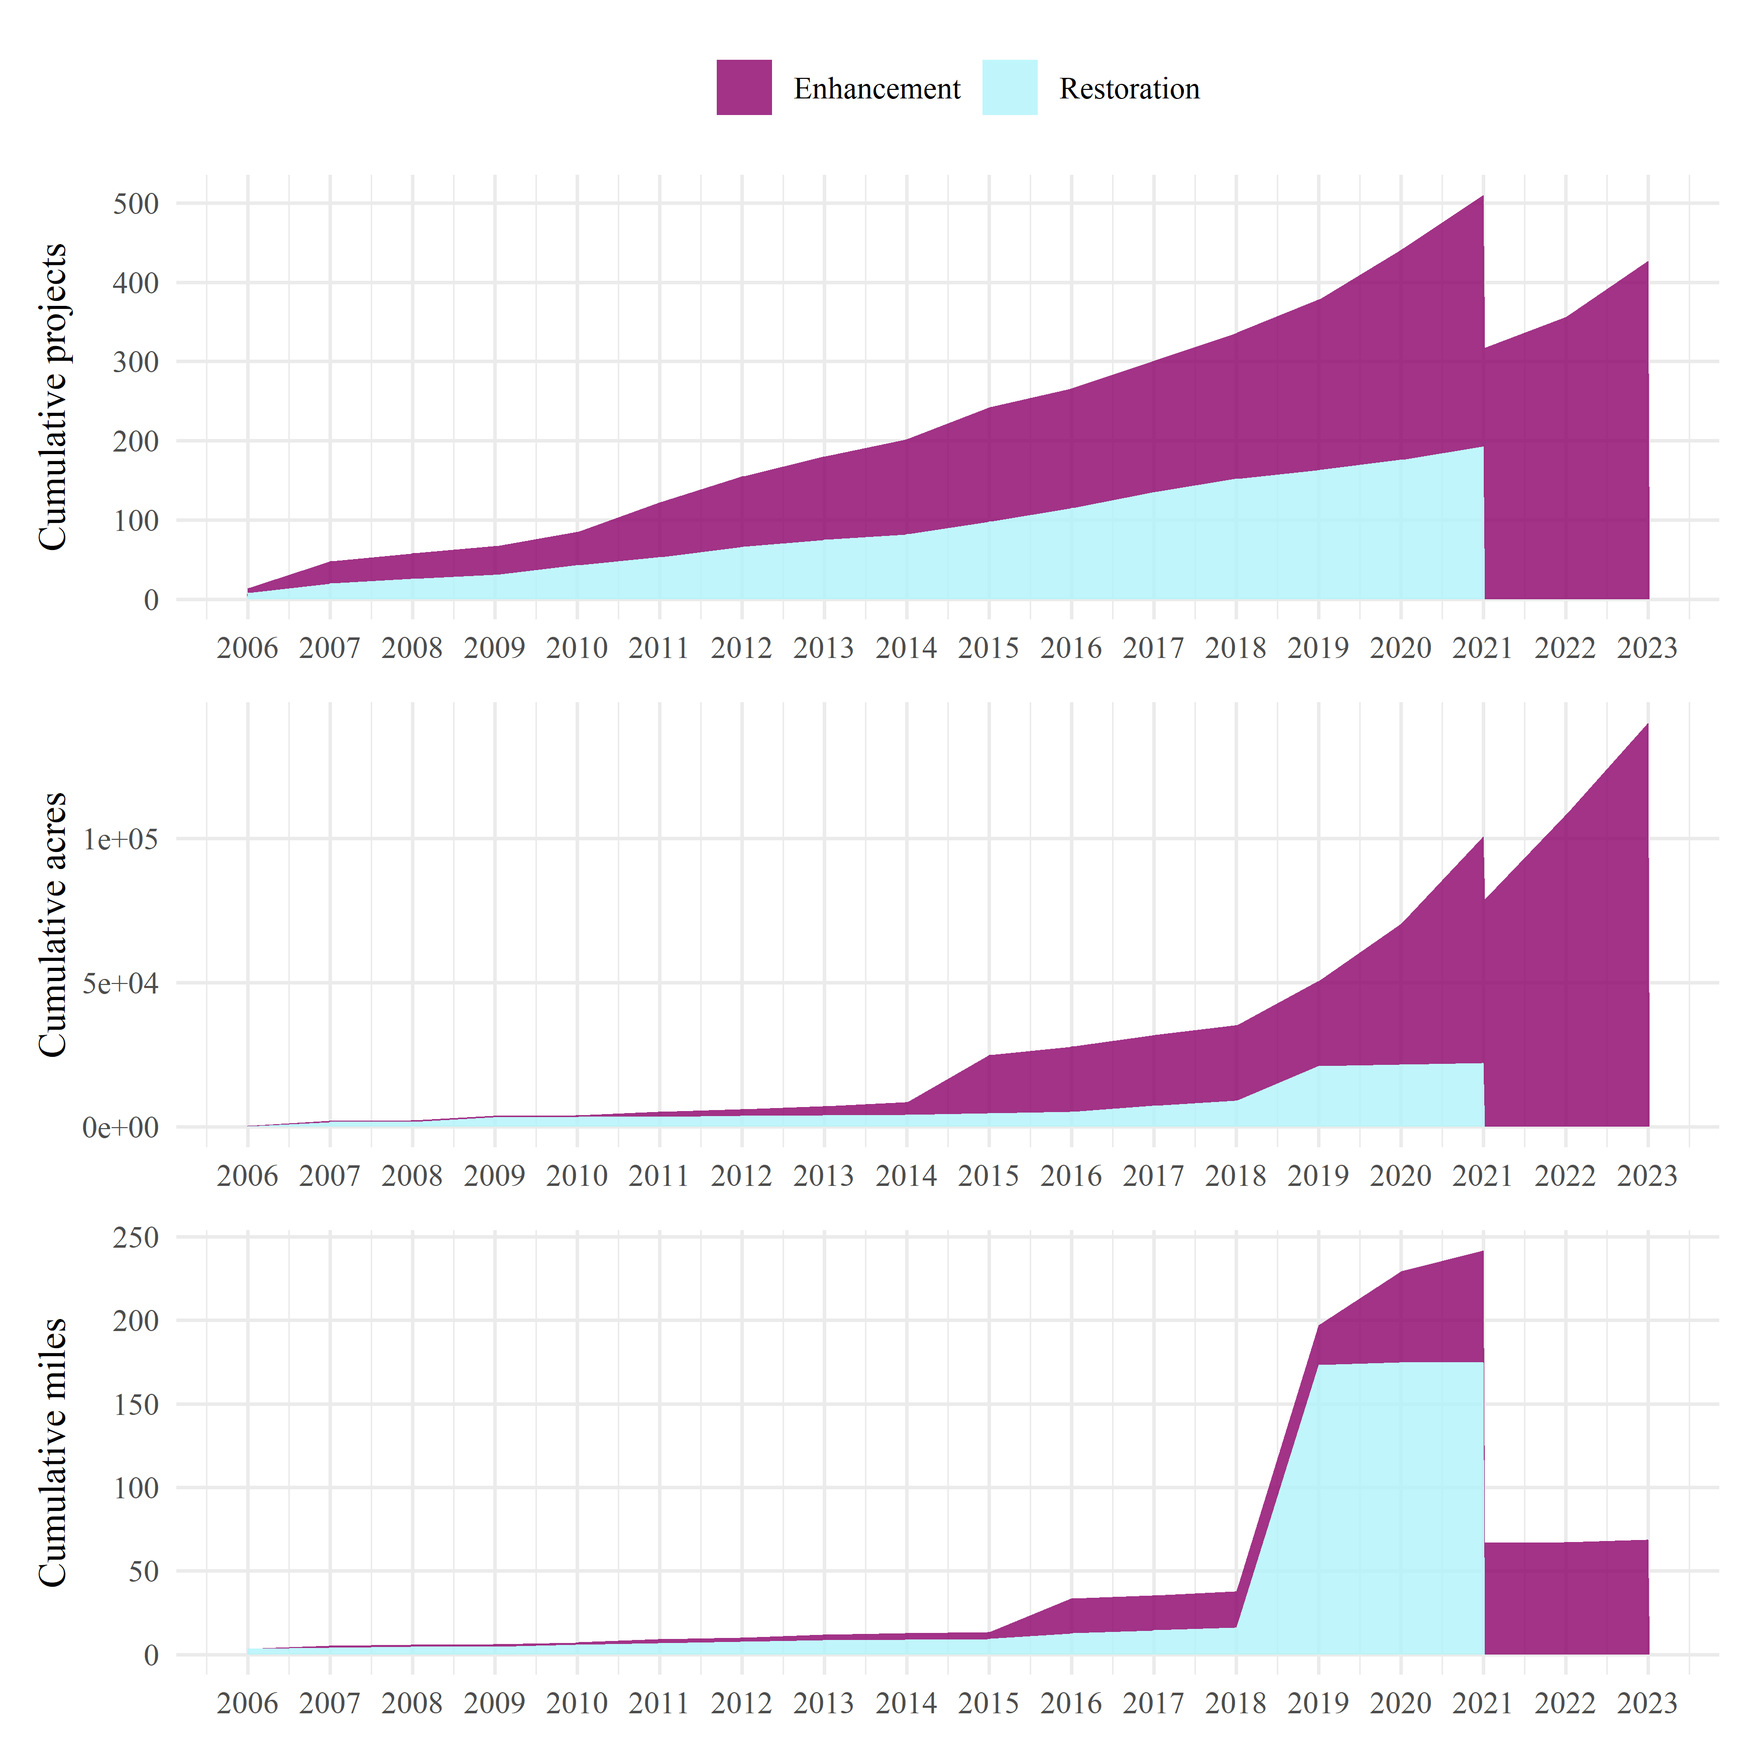
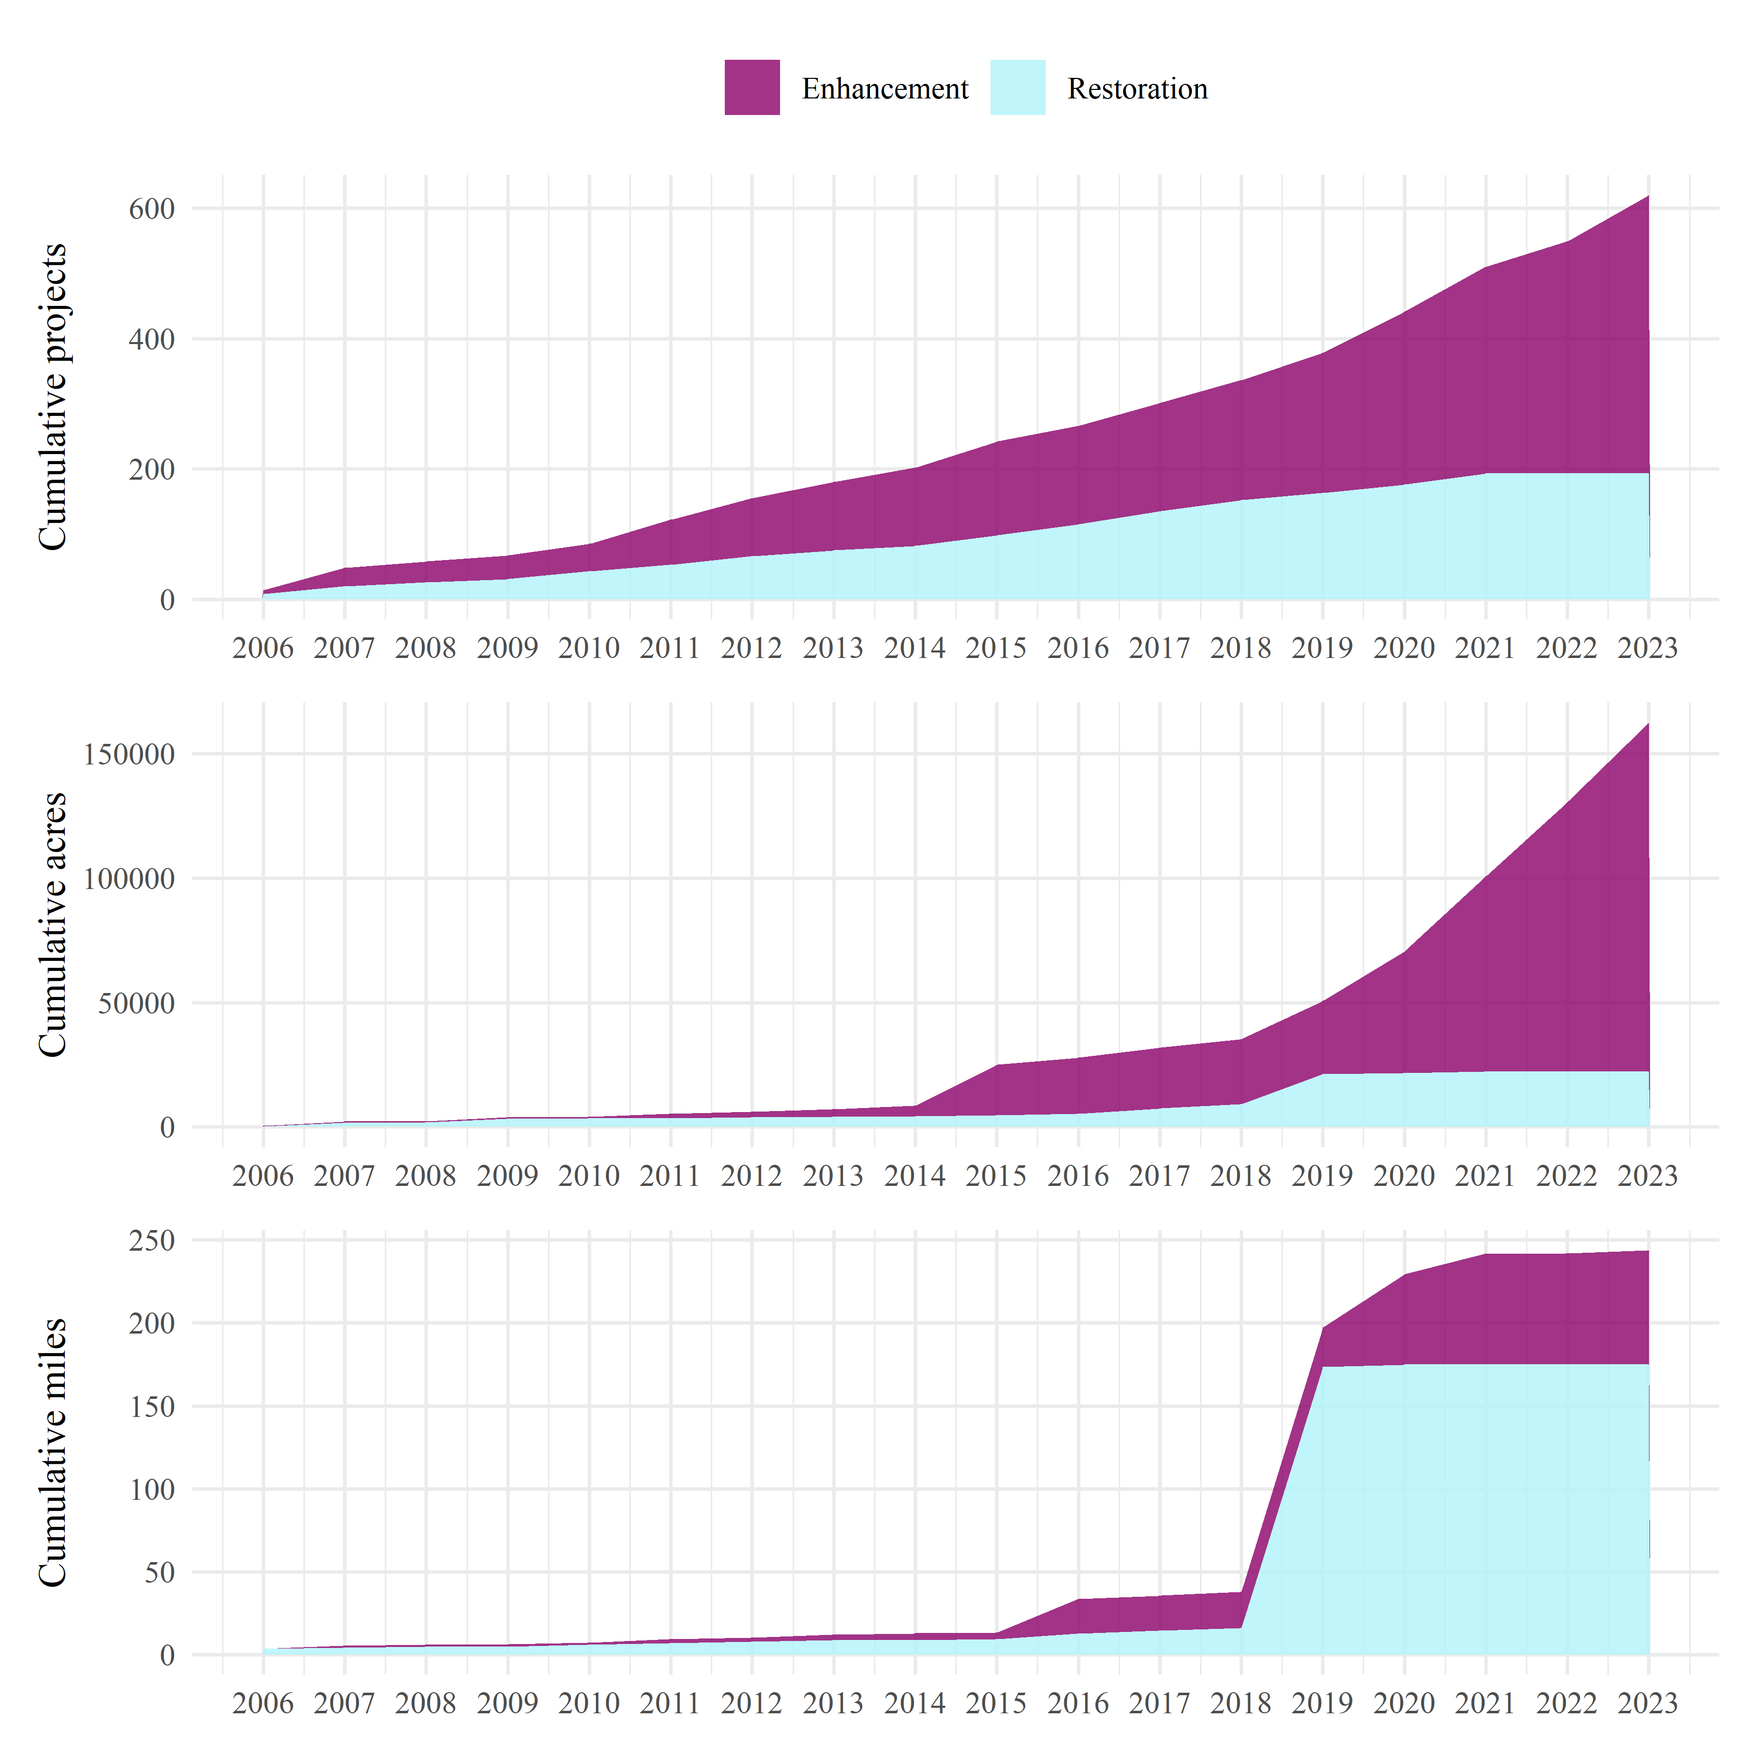
fix to cumulative figure if missing activity type in a year

diff --git a/docs/summaries.html b/docs/summaries.html
@@ -7,7 +7,7 @@
 <meta name="viewport" content="width=device-width, initial-scale=1.0, user-scalable=yes">
 
 <meta name="author" content="Dr.&nbsp;Marcus Beck, mbeck@tbep.org">
-<meta name="dcterms.date" content="2023-11-20">
+<meta name="dcterms.date" content="2023-11-21">
 
 <title>Habitat Restoration and Enhancement Project Summary</title>
 <style>
@@ -82,7 +82,7 @@ ul.task-list li input[type="checkbox"] {
     <div>
     <div class="quarto-title-meta-heading">Published</div>
     <div class="quarto-title-meta-contents">
-      <p class="date">November 20, 2023</p>
+      <p class="date">November 21, 2023</p>
     </div>
   </div>
   
@@ -101,16 +101,16 @@ ul.task-list li input[type="checkbox"] {
 <div class="cell">
 <div class="cell-output-display">
 <h5 class="title anchored">Restoration and enhancement projects in Tampa Bay (2006-2023)</h5>
-<div class="reactable html-widget html-fill-item-overflow-hidden html-fill-item" id="htmlwidget-140ea7eebec1c41a6c79" style="width:auto;height:auto;"></div>
-<script type="application/json" data-for="htmlwidget-140ea7eebec1c41a6c79">{"x":{"tag":{"name":"Reactable","attribs":{"data":{"Category":["Artificial Reefs","Coastal Uplands","Forested Freshwater Wetlands","Hard Bottom","Intertidal Estuarine (Other)","Living Shorelines","Low-Salinity Salt Marsh","Mangrove Forests","Non-forested Freshwater Wetlands","Oyster Bars","Salt Barrens","Seagrasses","Tidal Tributaries","Uplands (Non-coastal)","Mix/undocumented"],"tot":[4,34,45,9,40,15,49,38,48,14,2,12,11,299,0],"Restoration, Acres":[0,11983.9,489.64,23,191.7,0,158.62,400.77,765.78,300.1,42.3,3096.2,53.6,4738.7,0],"Restoration, Miles":[0.5994318181,0.8210227273,0.03,1.5823863636,162.0545454546,2.6132575759,4.965909091,0.5624999999,0,1.05625,0,0.0426136364,0.5492424243,0,0],"Enhancement, Acres":[1,2215.7,1238.3,0,273.9,7.4,144.43,1137.9,266.73,0.2,0,4.9,1.5,134923.1,0],"Enhancement, Miles":[0,1.9087878787,2.1321212121,0,16.3046969697,0.0852272727,0.0852272727,0.6124242424,3.7815909091,0.1480113636,0,0.7456439394,1.03,41.9511363636,0]},"columns":[{"id":"Category","name":"Habitat","type":"character","resizable":true,"format":{"cell":{"digits":1,"separators":true},"aggregated":{"digits":1,"separators":true}},"footer":"Total","minWidth":200,"style":{"fontSize":14,"fontFamily":"roboto"},"headerStyle":{"fontSize":14,"fontFamily":"roboto"},"footerStyle":{"fontWeight":"bold","fontSize":14,"fontFamily":"roboto"},"className":"sticky left-col-1-bord","headerClassName":"sticky left-col-1-bord","footerClassName":"sticky left-col-1-bord"},{"id":"tot","name":"Total projects","type":"numeric","resizable":true,"format":{"cell":{"digits":0},"aggregated":{"digits":0}},"footer":"620","minWidth":120,"style":{"fontSize":14,"fontFamily":"roboto"},"headerStyle":{"fontSize":14,"fontFamily":"roboto"},"footerStyle":{"fontWeight":"bold","fontSize":14,"fontFamily":"roboto"}},{"id":"Restoration, Acres","name":"Restoration, Acres","type":"numeric","resizable":true,"format":{"cell":{"digits":1,"separators":true},"aggregated":{"digits":1,"separators":true}},"footer":"22,244.3","minWidth":150,"style":{"fontSize":14,"fontFamily":"roboto"},"headerStyle":{"fontSize":14,"fontFamily":"roboto"},"footerStyle":{"fontWeight":"bold","fontSize":14,"fontFamily":"roboto"}},{"id":"Restoration, Miles","name":"Restoration, Miles","type":"numeric","resizable":true,"format":{"cell":{"digits":1,"separators":true},"aggregated":{"digits":1,"separators":true}},"footer":"174.9","minWidth":150,"style":{"fontSize":14,"fontFamily":"roboto"},"headerStyle":{"fontSize":14,"fontFamily":"roboto"},"footerStyle":{"fontWeight":"bold","fontSize":14,"fontFamily":"roboto"}},{"id":"Enhancement, Acres","name":"Enhancement, Acres","type":"numeric","resizable":true,"format":{"cell":{"digits":1,"separators":true},"aggregated":{"digits":1,"separators":true}},"footer":"140,215.0","minWidth":150,"style":{"fontSize":14,"fontFamily":"roboto"},"headerStyle":{"fontSize":14,"fontFamily":"roboto"},"footerStyle":{"fontWeight":"bold","fontSize":14,"fontFamily":"roboto"}},{"id":"Enhancement, Miles","name":"Enhancement, Miles","type":"numeric","resizable":true,"format":{"cell":{"digits":1,"separators":true},"aggregated":{"digits":1,"separators":true}},"footer":"68.7","minWidth":150,"style":{"fontSize":14,"fontFamily":"roboto"},"headerStyle":{"fontSize":14,"fontFamily":"roboto"},"footerStyle":{"fontWeight":"bold","fontSize":14,"fontFamily":"roboto"}}],"defaultPageSize":15,"showPageSizeOptions":false,"highlight":true,"nowrap":true,"dataKey":"779d99d8f91593e86b79705ed26201ab"},"children":[]},"class":"reactR_markup"},"evals":[],"jsHooks":[]}</script>
+<div class="reactable html-widget html-fill-item-overflow-hidden html-fill-item" id="htmlwidget-9747f538e24a4fed95a4" style="width:auto;height:auto;"></div>
+<script type="application/json" data-for="htmlwidget-9747f538e24a4fed95a4">{"x":{"tag":{"name":"Reactable","attribs":{"data":{"Category":["Artificial Reefs","Coastal Uplands","Forested Freshwater Wetlands","Hard Bottom","Intertidal Estuarine (Other)","Living Shorelines","Low-Salinity Salt Marsh","Mangrove Forests","Non-forested Freshwater Wetlands","Oyster Bars","Salt Barrens","Seagrasses","Tidal Tributaries","Uplands (Non-coastal)","Mix/undocumented"],"tot":[4,34,45,9,40,15,49,38,48,14,2,12,11,299,0],"Restoration, Acres":[0,11983.9,489.64,23,191.7,0,158.62,400.77,765.78,300.1,42.3,3096.2,53.6,4738.7,0],"Restoration, Miles":[0.5994318181,0.8210227273,0.03,1.5823863636,162.0545454546,2.6132575759,4.965909091,0.5624999999,0,1.05625,0,0.0426136364,0.5492424243,0,0],"Enhancement, Acres":[1,2215.7,1238.3,0,273.9,7.4,144.43,1137.9,266.73,0.2,0,4.9,1.5,134923.1,0],"Enhancement, Miles":[0,1.9087878787,2.1321212121,0,16.3046969697,0.0852272727,0.0852272727,0.6124242424,3.7815909091,0.1480113636,0,0.7456439394,1.03,41.9511363636,0]},"columns":[{"id":"Category","name":"Habitat","type":"character","resizable":true,"format":{"cell":{"digits":1,"separators":true},"aggregated":{"digits":1,"separators":true}},"footer":"Total","minWidth":200,"style":{"fontSize":14,"fontFamily":"roboto"},"headerStyle":{"fontSize":14,"fontFamily":"roboto"},"footerStyle":{"fontWeight":"bold","fontSize":14,"fontFamily":"roboto"},"className":"sticky left-col-1-bord","headerClassName":"sticky left-col-1-bord","footerClassName":"sticky left-col-1-bord"},{"id":"tot","name":"Total projects","type":"numeric","resizable":true,"format":{"cell":{"digits":0},"aggregated":{"digits":0}},"footer":"620","minWidth":120,"style":{"fontSize":14,"fontFamily":"roboto"},"headerStyle":{"fontSize":14,"fontFamily":"roboto"},"footerStyle":{"fontWeight":"bold","fontSize":14,"fontFamily":"roboto"}},{"id":"Restoration, Acres","name":"Restoration, Acres","type":"numeric","resizable":true,"format":{"cell":{"digits":1,"separators":true},"aggregated":{"digits":1,"separators":true}},"footer":"22,244.3","minWidth":150,"style":{"fontSize":14,"fontFamily":"roboto"},"headerStyle":{"fontSize":14,"fontFamily":"roboto"},"footerStyle":{"fontWeight":"bold","fontSize":14,"fontFamily":"roboto"}},{"id":"Restoration, Miles","name":"Restoration, Miles","type":"numeric","resizable":true,"format":{"cell":{"digits":1,"separators":true},"aggregated":{"digits":1,"separators":true}},"footer":"174.9","minWidth":150,"style":{"fontSize":14,"fontFamily":"roboto"},"headerStyle":{"fontSize":14,"fontFamily":"roboto"},"footerStyle":{"fontWeight":"bold","fontSize":14,"fontFamily":"roboto"}},{"id":"Enhancement, Acres","name":"Enhancement, Acres","type":"numeric","resizable":true,"format":{"cell":{"digits":1,"separators":true},"aggregated":{"digits":1,"separators":true}},"footer":"140,215.0","minWidth":150,"style":{"fontSize":14,"fontFamily":"roboto"},"headerStyle":{"fontSize":14,"fontFamily":"roboto"},"footerStyle":{"fontWeight":"bold","fontSize":14,"fontFamily":"roboto"}},{"id":"Enhancement, Miles","name":"Enhancement, Miles","type":"numeric","resizable":true,"format":{"cell":{"digits":1,"separators":true},"aggregated":{"digits":1,"separators":true}},"footer":"68.7","minWidth":150,"style":{"fontSize":14,"fontFamily":"roboto"},"headerStyle":{"fontSize":14,"fontFamily":"roboto"},"footerStyle":{"fontWeight":"bold","fontSize":14,"fontFamily":"roboto"}}],"defaultPageSize":15,"showPageSizeOptions":false,"highlight":true,"nowrap":true,"dataKey":"779d99d8f91593e86b79705ed26201ab"},"children":[]},"class":"reactR_markup"},"evals":[],"jsHooks":[]}</script>
 </div>
 </div>
 <p><br></p>
 <div class="cell">
 <div class="cell-output-display">
 <h5 class="title anchored">Restoration and enhancement projects in Tampa Bay (2023)</h5>
-<div class="reactable html-widget html-fill-item-overflow-hidden html-fill-item" id="htmlwidget-18f8fb02e9e7681a5f97" style="width:auto;height:auto;"></div>
-<script type="application/json" data-for="htmlwidget-18f8fb02e9e7681a5f97">{"x":{"tag":{"name":"Reactable","attribs":{"data":{"Category":["Artificial Reefs","Coastal Uplands","Forested Freshwater Wetlands","Hard Bottom","Intertidal Estuarine (Other)","Living Shorelines","Low-Salinity Salt Marsh","Mangrove Forests","Non-forested Freshwater Wetlands","Oyster Bars","Salt Barrens","Seagrasses","Tidal Tributaries","Uplands (Non-coastal)","Mix/undocumented"],"tot":[1,12,0,0,1,3,0,3,6,1,0,3,1,40,0],"Restoration, Acres":[0,0,0,0,0,0,0,0,0,0,0,0,0,0,0],"Restoration, Miles":[0,0,0,0,0,0,0,0,0,0,0,0,0,0,0],"Enhancement, Acres":[1,976.2,0,0,1.1,7.4,0,5,41.1,0.2,0,4,0.5,30974.6,0],"Enhancement, Miles":[0,0,0,0,0,0.0852272727,0,0.0946969697,0.8257575758,0,0,0,0,0.6571969697,0]},"columns":[{"id":"Category","name":"Habitat","type":"character","resizable":true,"format":{"cell":{"digits":1,"separators":true},"aggregated":{"digits":1,"separators":true}},"footer":"Total","minWidth":200,"style":{"fontSize":14,"fontFamily":"roboto"},"headerStyle":{"fontSize":14,"fontFamily":"roboto"},"footerStyle":{"fontWeight":"bold","fontSize":14,"fontFamily":"roboto"},"className":"sticky left-col-1-bord","headerClassName":"sticky left-col-1-bord","footerClassName":"sticky left-col-1-bord"},{"id":"tot","name":"Total projects","type":"numeric","resizable":true,"format":{"cell":{"digits":0},"aggregated":{"digits":0}},"footer":"71","minWidth":120,"style":{"fontSize":14,"fontFamily":"roboto"},"headerStyle":{"fontSize":14,"fontFamily":"roboto"},"footerStyle":{"fontWeight":"bold","fontSize":14,"fontFamily":"roboto"}},{"id":"Restoration, Acres","name":"Restoration, Acres","type":"numeric","resizable":true,"format":{"cell":{"digits":1,"separators":true},"aggregated":{"digits":1,"separators":true}},"footer":"0","minWidth":150,"style":{"fontSize":14,"fontFamily":"roboto"},"headerStyle":{"fontSize":14,"fontFamily":"roboto"},"footerStyle":{"fontWeight":"bold","fontSize":14,"fontFamily":"roboto"}},{"id":"Restoration, Miles","name":"Restoration, Miles","type":"numeric","resizable":true,"format":{"cell":{"digits":1,"separators":true},"aggregated":{"digits":1,"separators":true}},"footer":"0","minWidth":150,"style":{"fontSize":14,"fontFamily":"roboto"},"headerStyle":{"fontSize":14,"fontFamily":"roboto"},"footerStyle":{"fontWeight":"bold","fontSize":14,"fontFamily":"roboto"}},{"id":"Enhancement, Acres","name":"Enhancement, Acres","type":"numeric","resizable":true,"format":{"cell":{"digits":1,"separators":true},"aggregated":{"digits":1,"separators":true}},"footer":"32,011.1","minWidth":150,"style":{"fontSize":14,"fontFamily":"roboto"},"headerStyle":{"fontSize":14,"fontFamily":"roboto"},"footerStyle":{"fontWeight":"bold","fontSize":14,"fontFamily":"roboto"}},{"id":"Enhancement, Miles","name":"Enhancement, Miles","type":"numeric","resizable":true,"format":{"cell":{"digits":1,"separators":true},"aggregated":{"digits":1,"separators":true}},"footer":"1.7","minWidth":150,"style":{"fontSize":14,"fontFamily":"roboto"},"headerStyle":{"fontSize":14,"fontFamily":"roboto"},"footerStyle":{"fontWeight":"bold","fontSize":14,"fontFamily":"roboto"}}],"defaultPageSize":15,"showPageSizeOptions":false,"highlight":true,"nowrap":true,"dataKey":"38a42c7c588f2a85122a1daa3d8fb94a"},"children":[]},"class":"reactR_markup"},"evals":[],"jsHooks":[]}</script>
+<div class="reactable html-widget html-fill-item-overflow-hidden html-fill-item" id="htmlwidget-0ea3ce5dcf4389f3cc7c" style="width:auto;height:auto;"></div>
+<script type="application/json" data-for="htmlwidget-0ea3ce5dcf4389f3cc7c">{"x":{"tag":{"name":"Reactable","attribs":{"data":{"Category":["Artificial Reefs","Coastal Uplands","Forested Freshwater Wetlands","Hard Bottom","Intertidal Estuarine (Other)","Living Shorelines","Low-Salinity Salt Marsh","Mangrove Forests","Non-forested Freshwater Wetlands","Oyster Bars","Salt Barrens","Seagrasses","Tidal Tributaries","Uplands (Non-coastal)","Mix/undocumented"],"tot":[1,12,0,0,1,3,0,3,6,1,0,3,1,40,0],"Restoration, Acres":[0,0,0,0,0,0,0,0,0,0,0,0,0,0,0],"Restoration, Miles":[0,0,0,0,0,0,0,0,0,0,0,0,0,0,0],"Enhancement, Acres":[1,976.2,0,0,1.1,7.4,0,5,41.1,0.2,0,4,0.5,30974.6,0],"Enhancement, Miles":[0,0,0,0,0,0.0852272727,0,0.0946969697,0.8257575758,0,0,0,0,0.6571969697,0]},"columns":[{"id":"Category","name":"Habitat","type":"character","resizable":true,"format":{"cell":{"digits":1,"separators":true},"aggregated":{"digits":1,"separators":true}},"footer":"Total","minWidth":200,"style":{"fontSize":14,"fontFamily":"roboto"},"headerStyle":{"fontSize":14,"fontFamily":"roboto"},"footerStyle":{"fontWeight":"bold","fontSize":14,"fontFamily":"roboto"},"className":"sticky left-col-1-bord","headerClassName":"sticky left-col-1-bord","footerClassName":"sticky left-col-1-bord"},{"id":"tot","name":"Total projects","type":"numeric","resizable":true,"format":{"cell":{"digits":0},"aggregated":{"digits":0}},"footer":"71","minWidth":120,"style":{"fontSize":14,"fontFamily":"roboto"},"headerStyle":{"fontSize":14,"fontFamily":"roboto"},"footerStyle":{"fontWeight":"bold","fontSize":14,"fontFamily":"roboto"}},{"id":"Restoration, Acres","name":"Restoration, Acres","type":"numeric","resizable":true,"format":{"cell":{"digits":1,"separators":true},"aggregated":{"digits":1,"separators":true}},"footer":"0","minWidth":150,"style":{"fontSize":14,"fontFamily":"roboto"},"headerStyle":{"fontSize":14,"fontFamily":"roboto"},"footerStyle":{"fontWeight":"bold","fontSize":14,"fontFamily":"roboto"}},{"id":"Restoration, Miles","name":"Restoration, Miles","type":"numeric","resizable":true,"format":{"cell":{"digits":1,"separators":true},"aggregated":{"digits":1,"separators":true}},"footer":"0","minWidth":150,"style":{"fontSize":14,"fontFamily":"roboto"},"headerStyle":{"fontSize":14,"fontFamily":"roboto"},"footerStyle":{"fontWeight":"bold","fontSize":14,"fontFamily":"roboto"}},{"id":"Enhancement, Acres","name":"Enhancement, Acres","type":"numeric","resizable":true,"format":{"cell":{"digits":1,"separators":true},"aggregated":{"digits":1,"separators":true}},"footer":"32,011.1","minWidth":150,"style":{"fontSize":14,"fontFamily":"roboto"},"headerStyle":{"fontSize":14,"fontFamily":"roboto"},"footerStyle":{"fontWeight":"bold","fontSize":14,"fontFamily":"roboto"}},{"id":"Enhancement, Miles","name":"Enhancement, Miles","type":"numeric","resizable":true,"format":{"cell":{"digits":1,"separators":true},"aggregated":{"digits":1,"separators":true}},"footer":"1.7","minWidth":150,"style":{"fontSize":14,"fontFamily":"roboto"},"headerStyle":{"fontSize":14,"fontFamily":"roboto"},"footerStyle":{"fontWeight":"bold","fontSize":14,"fontFamily":"roboto"}}],"defaultPageSize":15,"showPageSizeOptions":false,"highlight":true,"nowrap":true,"dataKey":"38a42c7c588f2a85122a1daa3d8fb94a"},"children":[]},"class":"reactR_markup"},"evals":[],"jsHooks":[]}</script>
 </div>
 </div>
 </div>
@@ -585,7 +585,7 @@ window.document.addEventListener("DOMContentLoaded", function (event) {
 });
 </script>
 </div> <!-- /content -->
-<script>var lightboxQuarto = GLightbox({"selector":".lightbox","closeEffect":"zoom","loop":true,"descPosition":"bottom","openEffect":"zoom"});</script>
+<script>var lightboxQuarto = GLightbox({"closeEffect":"zoom","selector":".lightbox","descPosition":"bottom","openEffect":"zoom","loop":true});</script>
 
 
 
